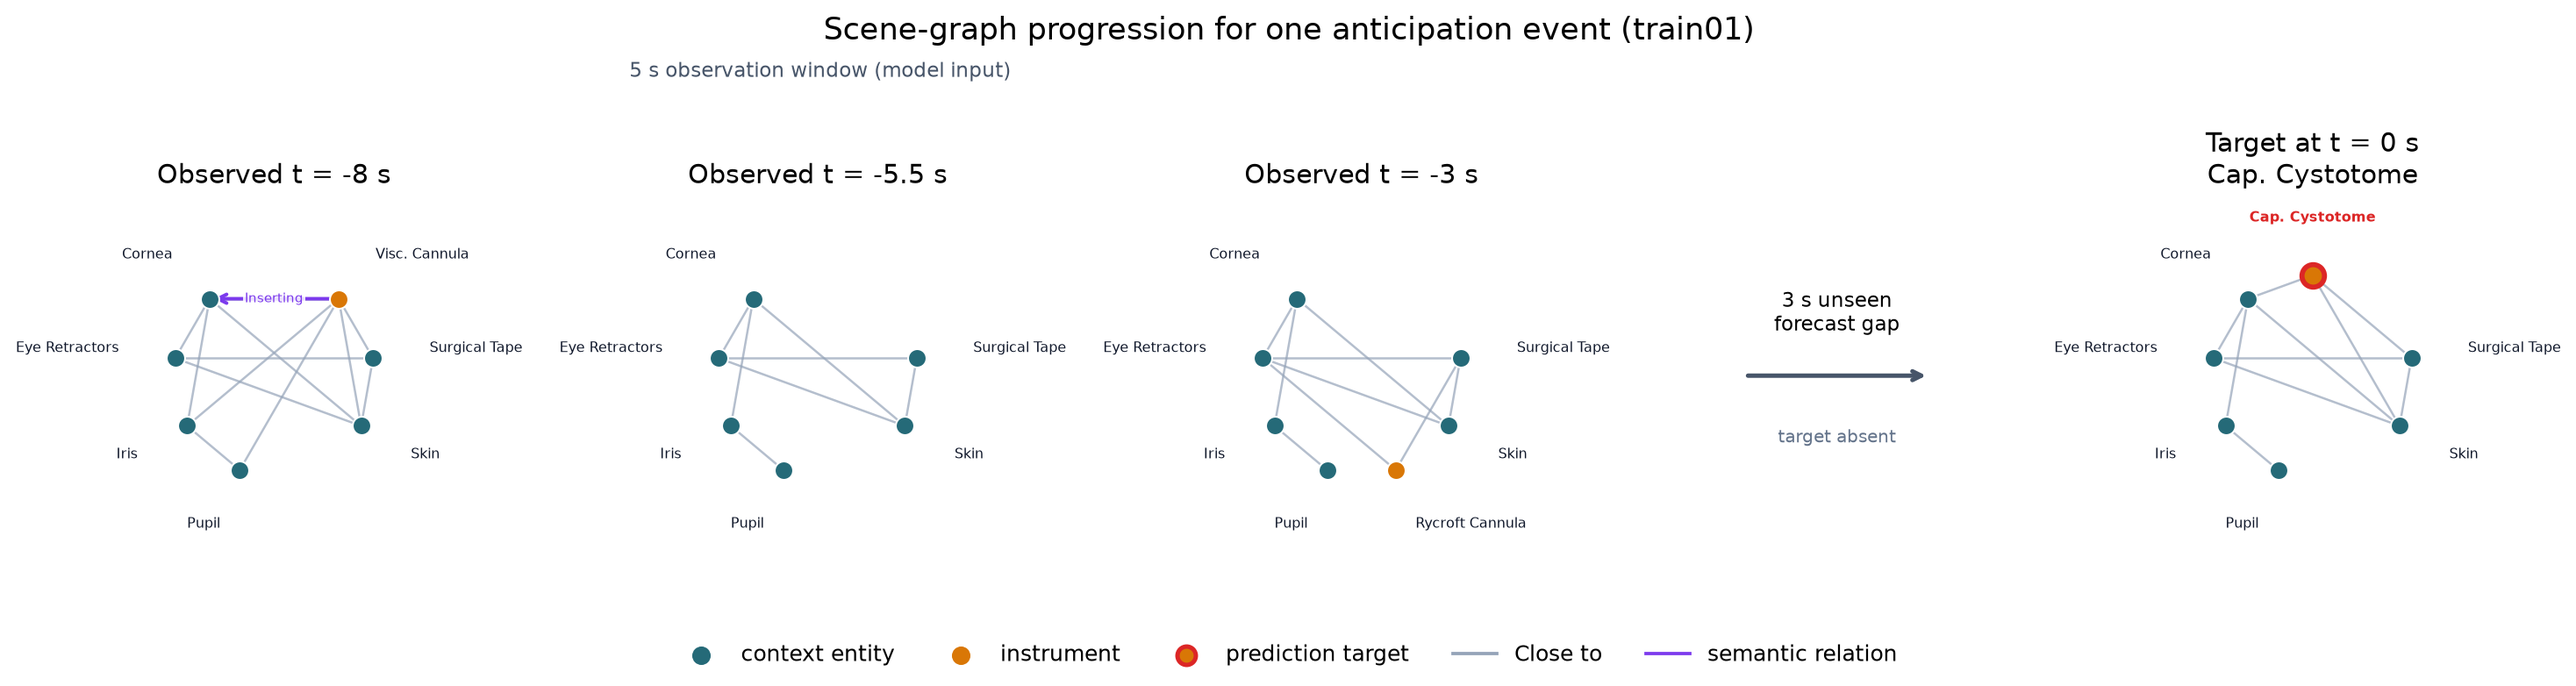
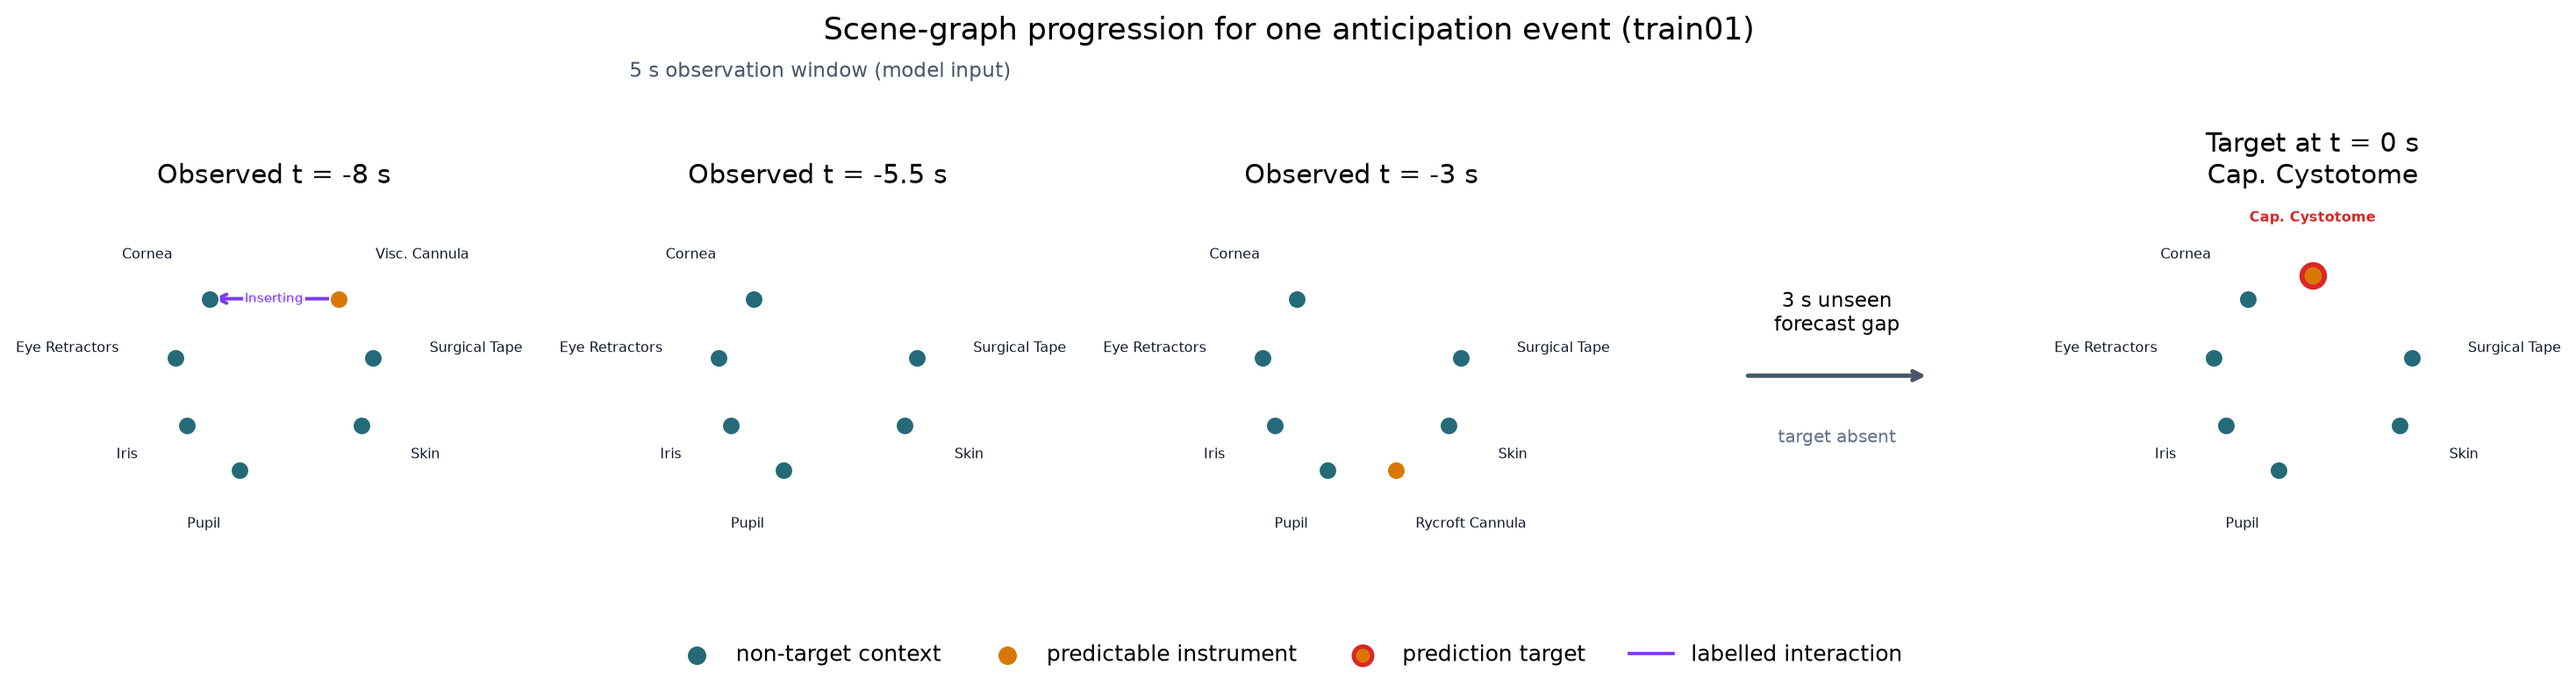
Simplify anticipation figure

diff --git a/README.md b/README.md
@@ -26,7 +26,9 @@ the input while retaining coordinated multi-instrument events.
 *A real training event reconstructed from JSON annotations. The first three panels show
 scene-graph progression during the five-second observation window; after a three-second
 unseen gap, the target instrument appears at onset. Node positions are held fixed across
-panels for readability and do not encode image geometry.*
+panels for readability and do not encode image geometry. Teal nodes are non-target context,
+orange nodes are predictable instruments, and purple arrows are labelled interactions;
+spatial proximity edges are omitted for clarity.*
 
 ## Study design
 
